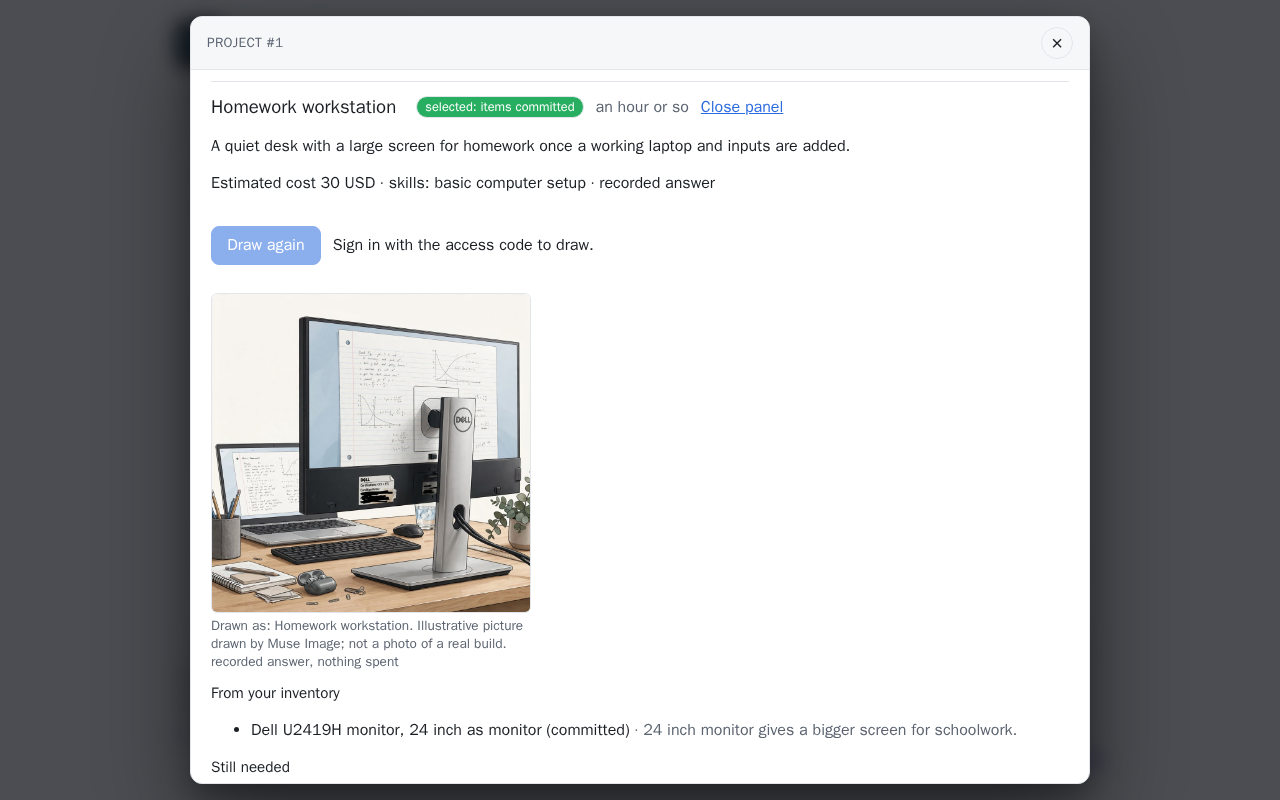
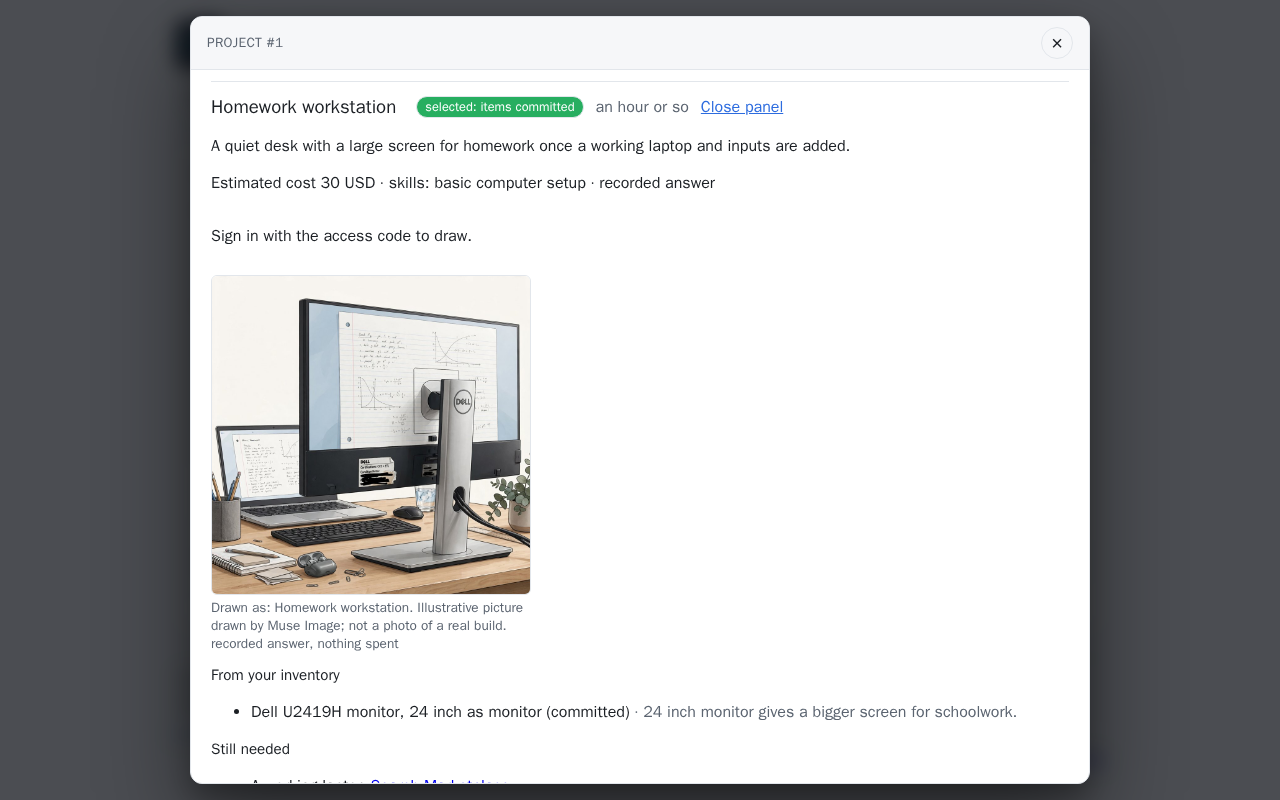
docs: visitor reads, keep_spare and the reshot visitor pictures

Changed region(s): [[0.1562, 0.375, 0.7812, 0.9688], [0.1562, 0.2812, 0.4688, 0.3438]]

diff --git a/backend/app/api/decide.py b/backend/app/api/decide.py
@@ -69,10 +69,11 @@ def uses_history(item_id: int, decider: DeciderDep) -> list[Uses]:
 @router.post("/items/{item_id}/decision", response_model=Item)
 def decide(item_id: int, spec: DecisionCreate, decider: DeciderDep) -> Item:
     """The owner's choice: `keep_build` sets the intent to build, `sell` and `give` to the
-    same, `keep_fix` and `not_worth` keep the item, the one to be repaired, the other with
-    the note saying why. `keep_fix` also adds the repair steps of the current scenarios to the
-    item's notes. The history gets `decided: <choice>: <note>`; the version is bumped when the
-    intent changes, a note is given or the notes gain the repair steps, not for the same
-    choice said again. With `version` set, a choice made from an older
-    version of the item is refused with 409 and nothing is written."""
+    same, `keep_fix`, `keep_spare` and `not_worth` keep the item: to be repaired, as it is
+    for when a part of it is wanted, or with the note saying why. `keep_fix` also adds the
+    repair steps of the current scenarios to the item's notes. The history gets
+    `decided: <choice>: <note>`; the version is bumped when the intent changes, a note is
+    given or the notes gain the repair steps, not for the same choice said again. With
+    `version` set, a choice made from an older version of the item is refused with 409 and
+    nothing is written."""
     return decider.decide(item_id, spec)

diff --git a/docs/reference/http-api.md b/docs/reference/http-api.md
@@ -53,7 +53,7 @@ separated `components`, and a `version` that every write increments.
 | `GET /api/items/{id}/photos/{n}` | one of them as JPEG, `1` first, never cached; `404` past the count. `copy=shared` (default `original`) gives the shared copy: each hidden area solid black, re-encoded, no metadata; `409` for a photo without a finished check. The demo visitor always gets the shared copy, whatever is asked, and `404` for a photo without a finished check |
 | `POST /api/items/{id}/photos/check` | check the item's photos for private details: those never checked or whose check failed, or every one with `again=true` (an area the owner showed stays shown when found again in the same place); one Muse Spark call a photo, the same photo once; the answer is the list above. Counted as a call that spends, each photo past the first one more (`429` with `Retry-After` when the allowance has fewer left, before any call); refused to the demo visitor |
 | `PATCH /api/items/{id}/photos/{n}/areas/{area}` | JSON `{hidden}`: an area blacked out on shared copies (`true`, the default) or shown; answers the photo's check; `404` for an area the photo does not have. Refused to the demo visitor |
-| `POST /api/items/{id}/public`, `POST /api/captures/{id}/public` | `{public}`: shown to the demo visitor (the item or capture, its values and photos, an item's drawn pictures; never a location, a note, a clip or a draft) or private again; the demo visitor's `GET` on items and captures lists the public ones and answers 404 for the rest |
+| `POST /api/items/{id}/public`, `POST /api/captures/{id}/public` | `{public}`: shown to the demo visitor (the item or capture, its values and photos, an item's drawn pictures and the results saved for it: Decide cards, ideas, drafts, price guidance; never a location, a note, a clip, the lowest price or the reason for selling) or private again; the demo visitor's `GET` on items and captures lists the public ones and answers 404 for the rest |
 | `POST /api/items/{id}/photos` | multipart `uploads`, one to `MAX_PHOTOS` in all on the item: re-encoded on the way in, metadata dropped, and each checked for private details (one Muse Spark call a photo, the same photo once; a check that does not finish keeps the photo and leaves it out of anything shared); `201` with the new `count` and `photos`, as above; `422` over the limit, `400` for a file that is not an image. Keeping photos is never refused for spend: each check is counted against the allowances, and one that `DEMO_PAUSED` or an allowance refuses is not made, the photo kept and not shared, its line saying why, until **Check for private details** |
 | `POST /api/items/{id}/parent-photo` | multipart `photo`: a photo of the device a part came from (the label under its base is best), read like a label (one Muse Spark call) and kept as a photo of the device, apart from the part's photos (outside `MAX_PHOTOS`, drafts and the photo zip); the brand and model number (or part number) read off it are proposed as `parent_device_model`, source `photo`, for the owner to accept; `201` with the `item`, the `model` read (empty when none) and the `extraction`; `404` for an item that is not there, `422` when the item already keeps `MAX_PHOTOS` photos of the device, `400` for an empty or too large file, each refused before anything is counted. Counted as a call that spends; refused to the demo visitor |
 | `GET /api/items/{id}/device-photos`, `GET /api/items/{id}/device-photos/{n}` | how many photos of the device the part came from are kept (`count`), and one of them as JPEG, `1` first; the owner's alone, refused to the demo visitor |
@@ -61,7 +61,7 @@ separated `components`, and a `version` that every write increments.
 | `GET /api/items/{id}/pictures` | the pictures drawn for the item and whether this server draws any (`enabled`); the demo visitor sees those of a public item (404 for the rest) and is never let draw one |
 | `GET /api/items/{id}/pictures/{n}` | one picture as JPEG, `1` first, never cached; `404` for a number never drawn. Kept beside the photos, never counted as one |
 | `POST /api/items/{id}/scenarios/{scenarios_id}/reuse/{card}/picture` | Muse Image draws how a reuse card's project could look once built (`card` counts from 0), from the card's `title` and `what_it_does`, the item's kind with up to three accepted values (none that identify it, no price) and the card's `with_items` kinds; one image per call, only on this request; `201` with the picture (`use` is the card's title); `404` for scenarios of another item or a card that is not there; `503` while `PICTURE_ENABLED` is off. Kept with that set of cards and gone with the item; counted as a call that spends; refused to the demo visitor |
-| `GET /api/items/{id}/scenarios/{scenarios_id}/reuse/{card}/pictures`, `GET .../pictures/{n}` | the pictures drawn for that card and `enabled`; one as JPEG, `1` first, never cached. Not for the demo visitor |
+| `GET /api/items/{id}/scenarios/{scenarios_id}/reuse/{card}/pictures`, `GET .../pictures/{n}` | the pictures drawn for that card and `enabled`; one as JPEG, `1` first, never cached. The demo visitor reads those of a public item (404 for the rest) |
 
 Errors: `404` for an unknown item or assertion, `409` on a version mismatch, `422` for a value
 outside the allowed sets (intent, availability, provenance, review), a field name that is not
@@ -85,19 +85,20 @@ over its bound (names 200 characters, values 500, details and `*_notes` fields 4
 | `GET /api/profiles/{id}/rules` | what a candidate is checked against: each rule with `key`, `label`, `kind` (`equal`, `within`, `at_least`, `at_most`), `unit`, `hard`, `identity`, `tolerance`, `tolerance_pct` and the `question` to ask when the value is unknown |
 | `POST /api/assess` | JSON `need` and `candidate`, each an inventory `item_id` or `values` keyed by rule key (a `profile` on the need when no item carries one): the `verdict` from the ladder with its `summary`, every `check` with `status` (`pass`, `fail`, `unknown`), `needed`, `observed`, `unit`, `basis` and the candidate's `backing` (provenance, review, source, uncertainty), the `questions` for the candidate's unknowns, the rules `missing` a needed value and the checks `to_confirm`; 422 without a profile or when both sides are the same item, 404 for an unknown item |
 | `POST /api/items/{id}/drafts` | JSON `mode` (`sell` or `give`), `holds_data`, `pickup`, `asking_price` (200 characters each, one line; the asking price one amount of dollars such as `$1,200.50`, else 422; the saved listing details are used when they are empty): one Muse Spark call (effort low) reads the item's accepted values (none that identifies it: a serial, MAC address or IMEI stays out, and one read off a photo is taken out of the text), the public listing details and the item's first four photos and writes a Facebook Marketplace (US) draft; the rules check `category` and `condition` against `backend/app/listing/marketplace_us.yaml`, set `price` in whole dollars and `price_basis` (the asking price, else the typical figure of the latest price guidance, named; `0` for a give-away), cut the `title` to 100 characters and the `tags` to 20, keep the `photos` order to the item's photos, append the disclosures (faults, what was and was not tested, what is included, data, pickup or shipping, availability), take out phone numbers, emails and street addresses, and drop any line that rests on nothing confirmed; the draft comes with `facts` (each naming its field), `uses` (give), `warnings`, `to_confirm`, `details_version`, its `checklist` (`prepare`, `photos`, and `data` when the item holds data), `ready`, `stale` and the `handoff_url`; 201. Counted as a call that spends |
-| `GET /api/items/{id}/drafts`, `GET /api/drafts/{id}` | the drafts written for an item, each with `stale` set when the item changed since |
+| `GET /api/items/{id}/drafts`, `GET /api/drafts/{id}` | the drafts written for an item, oldest first, each with `stale` set when the item changed since; writing again adds a `version`. The demo visitor reads those of a public item (404 for the rest), masked like the item and with the pickup area read as *the owner's area*; the photos zip stays the owner's |
 | `POST /api/drafts/{id}/checklist` | JSON `key` and `done`: tick or untick one step; 422 for an unknown step |
 | `GET /api/marketplace/us` | the Marketplace (US) `categories` (each a `path`, whether it was `seen` on the public category pages, what it `holds`), the four `conditions` and the `free_category` |
-| `GET /api/items/{id}/sell-details`, `PUT /api/items/{id}/sell-details` | the **Listing details** form: `condition_words`, `included` (`stand`, `cables`, `power_cord`, `box`, `manual`, `remote`), `included_other`, `faults`, `untested`, `data` (`none`, `wiped`, `not_wiped`), `reason` (private), `handover` (`pickup`, `shipping`, `either`), `area` (a city, ZIP or neighborhood), `asking_price` (above 0), `lowest_price` (private, not above the asking price), `availability`; each save is a new `version`; 422 for a street address in `area`, or a phone number, email or street address in the free text; `null` before the first save |
+| `GET /api/items/{id}/sell-details`, `PUT /api/items/{id}/sell-details` | the **Listing details** form: `condition_words`, `included` (`stand`, `cables`, `power_cord`, `box`, `manual`, `remote`), `included_other`, `faults`, `untested`, `data` (`none`, `wiped`, `not_wiped`), `reason` (private), `handover` (`pickup`, `shipping`, `either`), `area` (a city, ZIP or neighborhood), `asking_price` (above 0), `lowest_price` (private, not above the asking price), `availability`; each save is a new `version`; 422 for a street address in `area`, or a phone number, email or street address in the free text; `null` before the first save. The demo visitor reads the latest of a public item (404 for the rest) without `lowest_price`, `reason` and `area`, the free text masked like the item |
 | `GET /api/drafts/{id}/photos.zip` | the item's photos in the draft's order (`01-photo-2.jpg`, ...), as shared copies: private details blacked out, re-encoded, no metadata. `409` naming any photo without a finished check, unless `unchecked=true`, the owner's choice to put such a photo in as it is |
-| `GET /api/items/{id}/marketplace`, `POST /api/items/{id}/marketplace/listed`, `.../sold`, `.../given` | what happened after the owner posted: `listed` (`on`, `price`, an optional `url` under `https://www.facebook.com/marketplace/`), `sold` (`on`, `price` above 0: also a reported sale for price guidance, and the item becomes `gone`), `given` (`on`; the item becomes `gone`); dates `YYYY-MM-DD`, not past the owner's day (UTC+14 at most); listed may follow listed, nothing follows `sold` or `given` (409), and a sale's event, reported sale and `gone` are one write; the `state` and the `events` |
+| `GET /api/items/{id}/marketplace`, `POST /api/items/{id}/marketplace/listed`, `.../sold`, `.../given` | what happened after the owner posted: `listed` (`on`, `price`, an optional `url` under `https://www.facebook.com/marketplace/`), `sold` (`on`, `price` above 0: also a reported sale for price guidance, and the item becomes `gone`), `given` (`on`; the item becomes `gone`); dates `YYYY-MM-DD`, not past the owner's day (UTC+14 at most); listed may follow listed, nothing follows `sold` or `given` (409), and a sale's event, reported sale and `gone` are one write; the `state` and the `events`; the demo visitor reads the `GET` of a public item (404 for the rest) |
 | `POST /api/items/{id}/price` | JSON `currency` (ISO 4217, default `USD`), `country` (ISO 3166-1, optional), `city` (optional): Muse Spark searches for listings and sales of the same model, the rules keep only comparables a search result backs; four `quantities` (`asking`, `sold`, `reported`, `estimate`), each with `count`, `low`, `high`, `typical`, `basis`; the backed `comparables` with page and date, the `sources`, how many lines were `dropped`, three `strategies`, `weak` with its reason, `caveats`, `parts` when the item has components, `searches` made, and `stale` when the item changed since (a decision is no change); 201 |
-| `GET /api/items/{id}/price` | every guidance written for the item, newest last |
+| `GET /api/items/{id}/price` | every guidance written for the item, newest last; the demo visitor reads those of a public item (404 for the rest), masked like the item. Nothing is asked of a model |
 | `POST /api/items/{id}/price/reports`, `GET /api/items/{id}/price/reports` | a sale you know of (`price` above 0, `currency`, `sold_on` as `YYYY-MM-DD`, `note` up to 200 characters), kept apart from everything the search finds and counted under `reported` in the next guidance; 201 |
 | `POST /api/items/{id}/uses` | what the item is good for: the rules name the project templates with a requirement this kind of item fills (`templates`, each with the requirement keys it `fills`); Muse Spark proposes up to three `uses` from the item's accepted values, condition, faults, tests and the owner's preferences, each with `title`, `what_it_does`, `needs`, `effort` (`low`, `medium`, `high`) and a `note`; kept on the item with its `item_version` and `stale` once the item changes; 201 |
 | `POST /api/items/{id}/scenarios` | what to do with it, for this owner: one Muse Spark call (low effort) from the item's accepted values (none that identify it), condition, faults, tests, accessories and intent, the owner's profile (rated `skills`, `tools`, `effort`, `opens_devices`, `budget`) and the kinds of item they own besides; answers `keep_fix` (`worth_fixing`, `problems`, `steps`, `difficulty` `easy`/`moderate`/`hard`, `why`, `parts`, `cost`, `time`), `reuse` (two or three, each with `title`, `what_it_does`, `with_items` (read as the kinds the owner has now, without a count; others left out), `difficulty`, `why`, `extra_parts`, `cost`, `time`), `sell` (`selling_points`, `effort`, `note`; no price), `recommended` (`keep_fix`, `reuse`, `sell`, `give`) and `reason`; `profiled` false when no profile is saved and the cards are written for an average person; kept on the item with its `version`, `item_version`, `stale` once the item is changed by anything but a decision, and `steps_in_notes` once the keep and fix steps of these cards are in the notes; refused to the demo visitor; 201 |
-| `GET /api/items/{id}/decide` | one view to decide from: the `item` summary and `accepted_fields`; `worth`, the latest guidance in a line (`typical`, the `strategy` to start from, `weak`, `stale`) or null; the latest `uses` or null; the latest `scenarios` or null; the open `searches` from this item with `candidates` and `handoff_url`; the `templates` the rules say it fills; the `intent`; `committed_to`, the titles of the selected, building or done projects that count on the item; the `last` decision (`choice`, `note`, `at`, `version`) or null. Nothing is asked of a model |
-| `POST /api/items/{id}/decision` | JSON `choice` (`keep_fix`, `keep_build`, `sell`, `give`, `not_worth`) and `note` (200 characters, one line): sets the intent (`keep`, `build`, `sell`, `give`, `keep`) and writes `decided: <choice>: <note>` to the history; `keep_fix` also adds the repair steps of the latest scenarios to the item's notes when the item is still at the version they were written from (checked in the same transaction), whole steps left out and a closing *… (more in the scenarios)* when they would pass the notes' 4000 characters; the version is bumped when the intent changes, a note is given or the notes gain the steps, not for the same choice said again; with `version` set, a choice made from an older version is refused with `409` and nothing is written; the item |
+| `GET /api/items/{id}/decide` | one view to decide from: the `item` summary and `accepted_fields`; `worth`, the latest guidance in a line (`typical`, the `strategy` to start from, `weak`, `stale`) or null; the latest `uses` or null; the latest `scenarios` or null; the open `searches` from this item with `candidates` and `handoff_url`; the `templates` the rules say it fills; the `intent`; `committed_to`, the titles of the selected, building or done projects that count on the item; the `last` decision (`choice`, `note`, `at`, `version`) or null. Nothing is asked of a model. The demo visitor reads it for a public item (404 for the rest), without the decision's note and with only the searches and projects the visitor may read |
+| `GET /api/items/{id}/scenarios`, `GET /api/items/{id}/uses` | every set of cards and every answer of ideas written for the item, oldest first, each with its `version`, `model`, `cost_usd` and `at`: asking again adds one and never erases the others. Nothing is asked of a model; the demo visitor reads those of a public item (404 for the rest), masked like the item |
+| `POST /api/items/{id}/decision` | JSON `choice` (`keep_fix`, `keep_spare`, `keep_build`, `sell`, `give`, `not_worth`) and `note` (200 characters, one line): sets the intent (`keep`, `keep`, `build`, `sell`, `give`, `keep`) and writes `decided: <choice>: <note>` to the history; `keep_fix` also adds the repair steps of the latest scenarios to the item's notes when the item is still at the version they were written from (checked in the same transaction), whole steps left out and a closing *… (more in the scenarios)* when they would pass the notes' 4000 characters; the version is bumped when the intent changes, a note is given or the notes gain the steps, not for the same choice said again; with `version` set, a choice made from an older version is refused with `409` and nothing is written; the item |
 | `POST /api/searches`, `GET /api/searches`, `GET /api/searches/{id}`, `PATCH /api/searches/{id}` | a missing-item search: `need_item_id` or `profile` with `spec` (rule key to needed value), `title`, `max_price`, `currency`, `radius_km`, `budget_left`, `notes`; the answer carries `handoff_url`, the Marketplace search to run by hand, and the candidate count; `PATCH` takes `status` (`open`, `found`, `closed`) and `notes`; 422 without a profile |
 | `POST /api/searches/{id}/candidates` | multipart `request` (JSON: `source_kind` `text`, `screenshot` or `manual`, `text`, `values`, `observed_on`, `asking_price`, `currency`, `location`, `included_parts`, `url`, `note`) and the `screenshot` file for a screenshot candidate: the listing read into `fields` with their source, the `assessment`, the `state`, the `questions`, `observed_on` and `expires_on`; 422 for a candidate without its source or a date in the future; 201 |
 | `GET /api/searches/{id}/candidates`, `GET /api/candidates/{id}` | the candidates of a search, one candidate |

diff --git a/CHANGELOG.md b/CHANGELOG.md
@@ -16,7 +16,7 @@ All notable changes to Orphan Parts Lens. Versions follow SemVer.
 - A recorded generated image is kept beside its fixture as `<digest>-<n>.jpg` (or `.png`), the fixture's `b64_json` saying `@<that file>`: a picture stays a picture, and the JSON holds no long base64 run for a secret scanner to take for a token. Fixtures with the image inline still load.
 - A demo set item can carry `measurements:`, each a feature measured on one of its photos from the marks the set gives (the reference's two points and known length, or a rectangle's four corners, then the feature's two points, with the straight-on statement): the loader runs **Measure a feature** on them, geometry only and no model call, keeps the capture on the item like the owner's own (`DemoMeasurement`, `Outcome.measurements`), and an accepted value is confirmed with the item's other readings (source `measurement`); a refused capture is kept and listed as skipped with its reason. The evaluation counts a measurement neither as a field read nor in the training lines.
 
-- The demo shows what was asked, as it was saved, and never asks again on view: the demo visitor reads a public item's **Decide** cards (with the pictures drawn of its reuse cards), ideas, recommendation and the plan chosen, its drafts in Marketplace's fields (title, price, category, condition, description, tags, photo order, warnings and checklist, read-only), the give-away's posting steps, its price guidance and its Marketplace outcomes, by `GET` alone with plain-digit ids (`/api/items/{id}/decide`, `scenarios`, `uses`, `drafts`, `price`, `sell-details`, `marketplace`, `/api/drafts/{id}`, a reuse card's pictures, `/api/marketplace/us`); a private item's answer 404. The model's text is masked as on a label, the decision's note is left out, the listing details come without the lowest price, the reason and the area, and the area reads *the owner's area* in a draft; the sales the owner reported and the photo zip stay behind the code. New `GET /api/items/{id}/scenarios` and `GET /api/items/{id}/uses` list every set of cards and every answer of ideas, oldest first.
+- The demo shows what was asked, as it was saved, and never asks again on view: the demo visitor reads a public item's **Decide** cards (with the pictures drawn of its reuse cards), ideas, recommendation and the plan chosen, its drafts in Marketplace's fields (title, price, category, condition, description, tags, photo order, warnings and checklist, read-only), the give-away's posting steps, its price guidance and its Marketplace outcomes, by `GET` alone with plain-digit ids (`/api/items/{id}/decide`, `scenarios`, `uses`, `drafts`, `price`, `sell-details`, `marketplace`, `/api/drafts/{id}`, a reuse card's pictures, `/api/marketplace/us`); a private item's answer 404. The model's text is masked as on a label, the decision's note is left out, the listing details come without the lowest price, the reason and the area, and every area the owner saved (and a pickup typed for one draft) reads *the owner's area* in a draft; the visitor gets no **Draw it** button, only *Sign in with the access code to draw.*; the sales the owner reported and the photo zip stay behind the code. New `GET /api/items/{id}/scenarios` and `GET /api/items/{id}/uses` list every set of cards and every answer of ideas, oldest first. An item reserved by a project the owner selects is no edit: its cards, ideas, drafts and guidance stay current, as after a decision.
 - Every step that asks a model shows its latest saved answer when its section opens, an **Earlier** list of the ones before it (version, date, model) to pick from, and a button to ask again that adds a version (**Ask again**, **Write a new draft**, **Draw again**); before it was ever asked, what it does, what it gives back and what one asking costs. The inventory list has a *Saved results* column (Decide cards, ideas, sell draft, give draft, price guidance) and its *Plan* column shows the last choice made. A new choice, **Keep as a spare** (`keep_spare`), keeps an item as it is for its parts.
 - **Build and reuse** shows a project whole: every picture drawn of it side by side, a **Search Marketplace** link beside each part still needed, the steps open for the visitor, and the build pack read in place (headings, lists, steps and tables, never set as HTML) with every version listed to show or download; **Write it again** adds a version. The demo set's `propose.packs: true` selects the kept projects their items allow and writes their packs by the rules, so the visitor reads them.
 - The demo set keeps a saved outcome for every item: per-item `decide`, `ideas`, `reuse_picture`, `decision` and `decision_note`, a search's `plan` and `propose.pictures` in `demo/set.yaml`, each answered in fixture mode only by the recording of that very request (`Outcome.cards`, `ideas`, `decisions`, `plans`). Recorded once: ten sets of cards, four answers of ideas, the laptop board's price guidance, the agitator search's plan, the four item pictures named in the set, four reuse card pictures and two project pictures (0.27 USD). An item's price guidance is now asked before its draft, so a sell draft from the set carries the guidance's typical price.

diff --git a/docs/guides/decide.md b/docs/guides/decide.md
@@ -40,8 +40,8 @@ Decide section is read-only (see [Without the access code](#without-the-access-c
 
     ![The decision made: Decided Keep and fix, with the date, under the rows](../assets/shots/decide/05-decision-made.png)
 
-The decision buttons under the rows (**Keep and fix**, **Keep and build**, **Sell**, **Give
-away**, **Not worth it**, with a note) record the same choice without the cards.
+The decision buttons under the rows (**Keep and fix**, **Keep as a spare**, **Keep and build**, **Sell**,
+**Give away**, **Not worth it**, with a note) record the same choice without the cards.
 
 ## Built so far
 
@@ -105,7 +105,7 @@ location, the notes, a photo, a price or a search. One structured call at low ef
 
 The last cards are kept on the item with the item version they were written from, like the
 ideas: they say *item changed since* once the item is edited (a decision is no edit, so the
-cards you chose from stay current), and **Ask again** writes
+cards you chose from stay current; nor is the item being reserved by a project you select), and **Ask again** writes
 a new version beside the earlier ones. Opening the section asks no model: it shows the latest
 cards as kept, with their version, date, model and cost, and **Earlier cards (n)** lists the
 ones before them (version, date, model) to pick and read again; the ideas the same way under
@@ -154,8 +154,9 @@ reloaded, and you choose again from what it is now.
 The demo visitor reads the panel as the owner left it, for a public item: the cards with the
 recommendation, the pictures drawn of the reuse cards, the ideas, the worth line, and the plan
 chosen (*Decided: Keep and build*) without the note said with it; the earlier cards and ideas
-are listed too. **Ask again**, **Ask for ideas**, **Draw it**, the note and the decision
-buttons give way to *Sign in with the access code to use this.*; reading asks no model and
+are listed too. **Ask again**, **Ask for ideas**, the note and the decision buttons give way
+to *Sign in with the access code to use this.*, and **Draw it** to *Sign in with the access code
+to draw.*; reading asks no model and
 nothing is kept. Every item of the demo set has its cards and its plan saved. The inventory
 list marks the results kept for each item (*Decide cards*, *ideas*, *sell draft*, *give
 draft*, *price guidance*) and its **Plan** column shows the last choice.

diff --git a/docs/models/muse-image.md b/docs/models/muse-image.md
@@ -39,10 +39,10 @@ named, each once.
 
 Never by itself. One call per click on the live door; showing an item, writing scenarios,
 proposing projects, opening a project or deciding draws nothing. The demo visitor is refused (`403`) like
-every other call that spends, and sees only the pictures already drawn for a public item; the
-key is never used without the code. Scenarios and projects are not shown to the demo visitor,
-so a card's or a project's **Draw it** is disabled for them with *Sign in with the access code
-to draw.* The switch is `PICTURE_ENABLED` (off by
+every other call that spends, and sees only the pictures already drawn for a public item, a
+reuse card of its saved cards or a project built on public items; the key is never used without
+the code. In place of a card's or a project's **Draw it** the visitor reads *Sign in with the
+access code to draw.* The switch is `PICTURE_ENABLED` (off by
 default): while it is off the route answers `503` with *pictures are off on this server
 (PICTURE_ENABLED)*, and the section shows one line saying pictures are off, no field and no button; a card or a
 project shows *Pictures are off on this server.* in place of **Draw it**.

diff --git a/docs/guides/reuse.md b/docs/guides/reuse.md
@@ -78,7 +78,7 @@ buttons and **Draw again** give way to the sign-in line; nothing is spent and no
 
 ![Build and reuse for a visitor: the build wishes, Propose: Sign in with the access code to use this., the projects](../assets/shots/demo/06-visitor-build.png)
 
-![A project for a visitor: its drawn picture, Draw again disabled with Sign in with the access code to draw., and the sign-in line in place of Shortlist and Select](../assets/shots/demo/09-visitor-project.png)
+![A project for a visitor: its drawn picture, Sign in with the access code to draw. where Draw it would be, and the sign-in line in place of Shortlist and Select](../assets/shots/demo/09-visitor-project.png)
 
 ## Built so far
 
